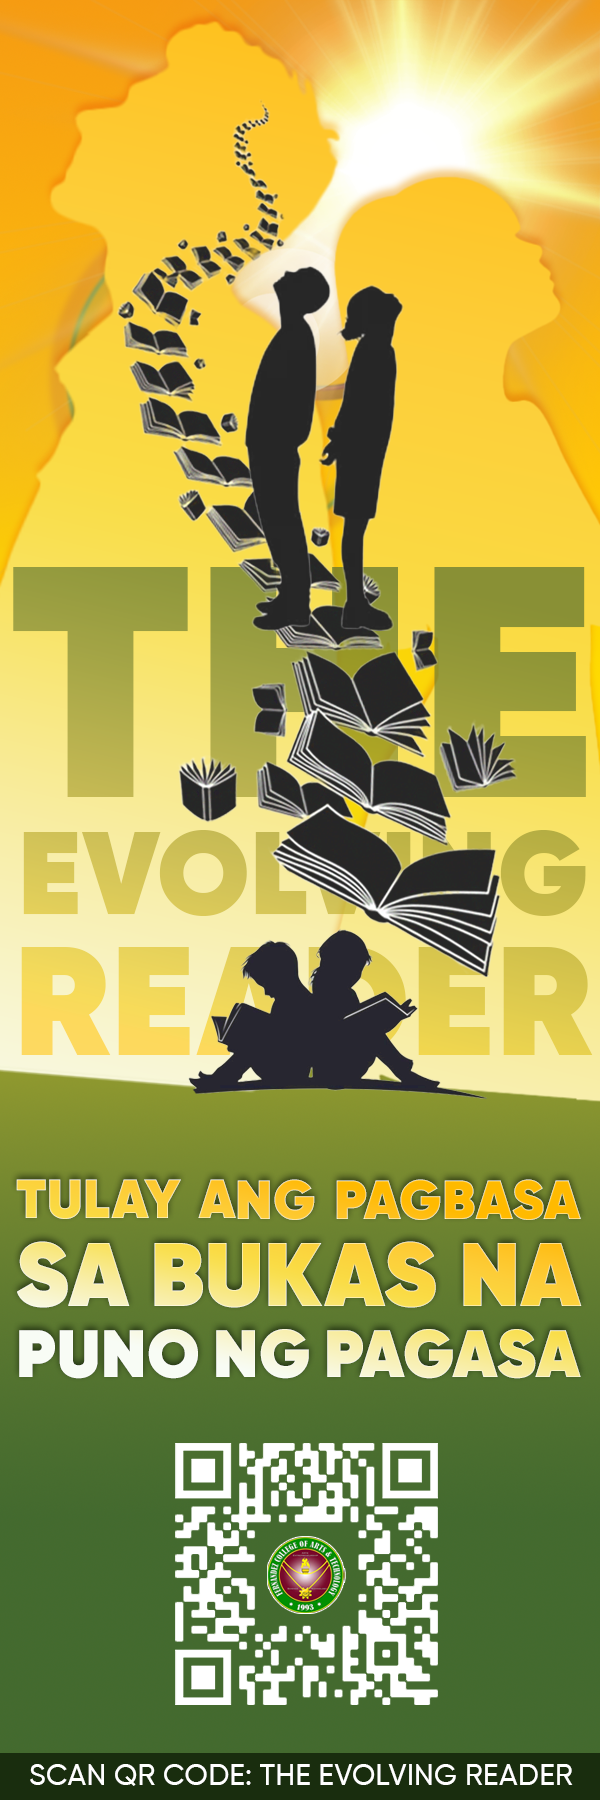
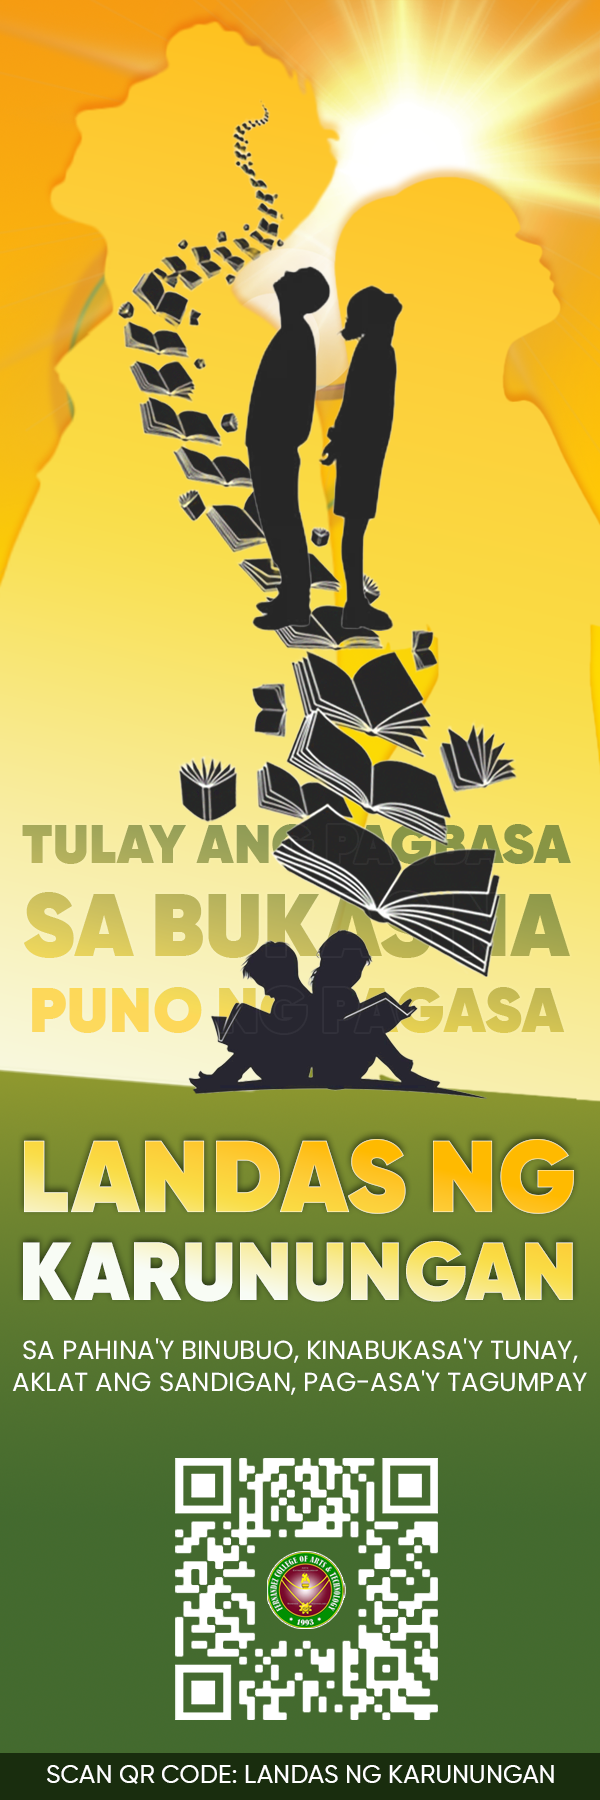
Updates Commit for Bookmarks v0.5

Changed region(s): [[0.03, 0.6222, 0.99, 0.9956], [0.0, 0.3111, 0.99, 0.5911], [0.06, 0.9644, 0.24, 0.9956]]

diff --git a/index.html b/index.html
@@ -4,14 +4,14 @@
     <meta charset="UTF-8" />
     <meta name="viewport" content="width=device-width, initial-scale=1.0" />
 
-    <title>The Evolving Reader - Interactive Bookmark</title>
+    <title>Landas ng Karunungan - Interactive Bookmark</title>
     <meta
       name="description"
-      content="Explore 'The Evolving Reader', an interactive bookmark design based on the theme 'Tulay ang Pagbasa sa Bukas na Puno ng Pag-asa'. Designed by Eunice Trinadad."
+      content="Explore 'Landas ng Karunungan', an interactive bookmark design based on the theme 'Tulay ang Pagbasa sa Bukas na Puno ng Pag-asa'. Designed by Eunice Trinadad."
     />
     <meta
       name="keywords"
-      content="bookmark, interactive, design, evolving reader, pagbasa, pag-asa, Eunice Trinadad, reading, education"
+      content="bookmark, interactive, design, landas ng karunungan, pagbasa, pag-asa, Eunice Trinadad, reading, education"
     />
     <meta name="author" content="Eunice Trinadad" />
     <link rel="canonical" href="https://bookmarks-1.pages.dev/" />
@@ -20,10 +20,10 @@
 
     <meta property="og:type" content="website">
     <meta property="og:url" content="https://bookmarks-1.pages.dev/"> 
-    <meta property="og:title" content="The Evolving Reader - Interactive Bookmark">
-    <meta property="og:description" content="Explore 'The Evolving Reader', an interactive bookmark design based on the theme 'Tulay ang Pagbasa sa Bukas na Puno ng Pag-asa'.">
+    <meta property="og:title" content="Landas ng Karunungan - Interactive Bookmark">
+    <meta property="og:description" content="Explore 'Landas ng Karunungan', an interactive bookmark design based on the theme 'Tulay ang Pagbasa sa Bukas na Puno ng Pag-asa'.">
     <meta property="og:image" content="https://bookmarks-1.pages.dev/img/bmk-1.png"> 
-    <meta property="og:site_name" content="The Evolving Reader"> 
+    <meta property="og:site_name" content="Landas ng Karunungan"> 
 
     <link
       href="https://cdn.jsdelivr.net/npm/bootstrap@5.3.3/dist/css/bootstrap.min.css"
@@ -54,7 +54,7 @@
         <div class="row align-items-center min-vh-100">
           <div class="col-lg-6 col-12 hero-text-content">
             <h1 class="display-2 shimmering-text" data-animate="fade-in">
-              The Evolving Reader
+              Landas ng Karunungan
             </h1>
 
             <p
@@ -130,7 +130,7 @@
             <div class="bookmark-container" id="bookmark-container">
               <img
                 src="img/bookmark.png"
-                alt="The Evolving Reader Bookmark"
+                alt="Landas ng Karunungan Bookmark"
                 class="bookmark-image"
                 id="bookmark-image"
               />
